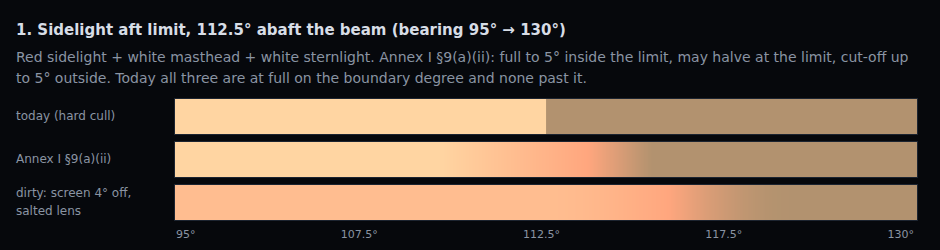
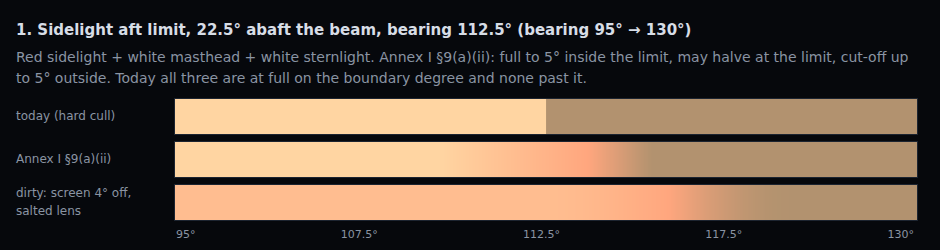
docs(research): panel 1 heading says 22.5° abaft the beam; Annex I figures checked against 33 CFR 84
The sidelight aft limit is 22.5° abaft the beam, bearing 112.5° from
ahead; the heading had the two numbers crossed. The README's citations
were marked as from memory; they are now checked against the US
codification of Annex I, 33 CFR Part 84, and every figure matched.
Stills that carry the heading regenerated.

Changed region(s): [[0.1851, 0.084, 0.7404, 0.168]]

diff --git a/docs/research/2026-10-17-nav-light-realism-gaps/index.html b/docs/research/2026-10-17-nav-light-realism-gaps/index.html
@@ -77,7 +77,7 @@
       Additive colour on black; brightness is relative intensity.
     </p>
 
-    <h2>1. Sidelight aft limit, 112.5° abaft the beam (bearing 95° → 130°)</h2>
+    <h2>1. Sidelight aft limit, 22.5° abaft the beam, bearing 112.5° (bearing 95° → 130°)</h2>
     <p>
       Red sidelight + white masthead + white sternlight. Annex I §9(a)(ii): full to 5° inside the
       limit, may halve at the limit, cut-off up to 5° outside. Today all three are at full on the

diff --git a/docs/research/2026-10-17-nav-light-realism-gaps/README.md b/docs/research/2026-10-17-nav-light-realism-gaps/README.md
@@ -2,7 +2,7 @@
 
 Review note, 2026-10-17, Fable session. Read against: the [2026-10-11 write-up](https://github.com/mark-brannan/claude_prompts_scratch/blob/main/state/global/research/2026-10-11-nav-light-reflections-spec.md), nav-wright #47 #93 #117 #118, PRs #100 #110 #116, `src/placement.ts` (`bearingInArc`, inclusive boundaries), `src/svg.tsx` (`glowProfile`, `Glow`), `src/BenchyModel.tsx` (`SceneLight`), `src/lantern.ts`, colregs `data/geometry.json` (`sectors`, `intensity`, `colors`). Mockups: [index.html](index.html) (live, the yaw dot moves), stills `1-aft-limit.png` to `6-shadow-sectors.png` beside it.
 
-Annex I text cited below (§5, §9(a)(ii), §9(b), §10) is from memory of the 1972 Convention as amended; colregs `geometry.json` carries only §9(a)(i), §7 and §8. Verify against the corpus before any of it becomes a requirement.
+Annex I text cited below (§5, §8, §9(a)(ii), §9(b), §10) was checked on 2026-10-17 against its US codification, 33 CFR Part 84 (§§ 84.05, 84.14, 84.15, 84.16); every degree and percentage matches. colregs `geometry.json` carries only §9(a)(i), §7 and §8, so none of it is machine-readable yet (colregs#228).
 
 ## A. In the write-up, glossed or dropped on the way to #118
 
